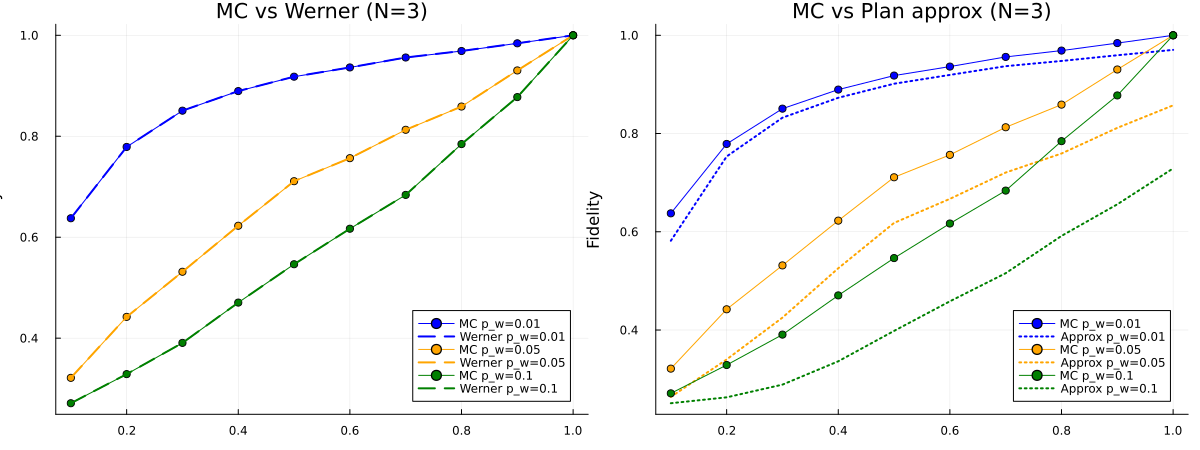
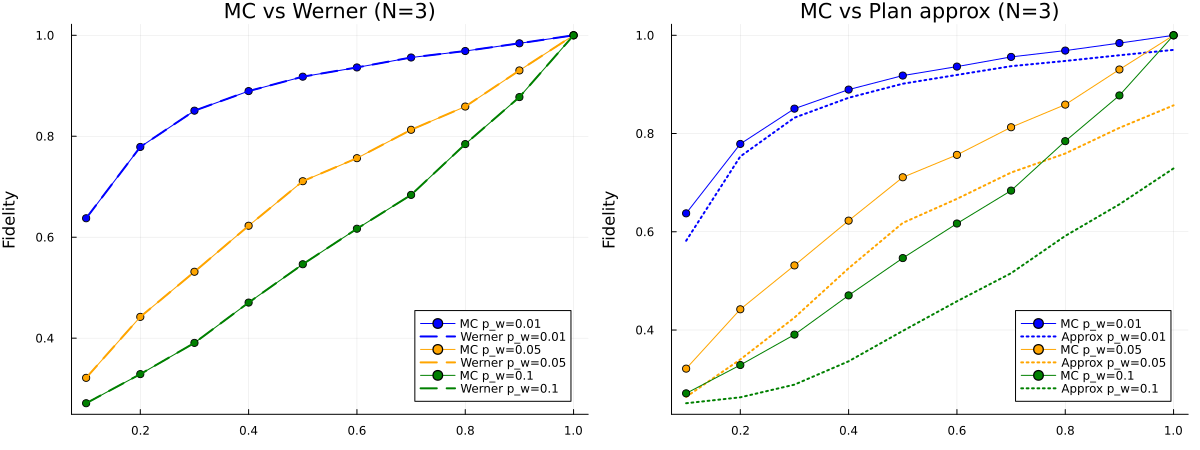
State timing assumptions, fix tail wording, N=1 check, and margins

diff --git a/presentation.tex b/presentation.tex
@@ -285,6 +285,12 @@
           T = \max_{i=1}^{N+1} T_i, \quad T_i \sim \mathrm{Geom}(\ps)
         \]
         {\small Larger $T$ $\Rightarrow$ more depolarization $\Rightarrow$ lower $F$.}
+
+        \vskip 0.2em
+        {\footnotesize \textbf{Assumption:} all BSMs execute at $T$, classical
+        messages are instantaneous. Swapping \emph{as soon as possible} would
+        measure out repeater qubits earlier $\Rightarrow$ this synchronous
+        model is the pessimistic case.}
       \end{block}
 
       \vskip 0.2em
@@ -359,7 +365,7 @@
 % ============================================================
 %  PHASE 1: IDEAL VALIDATION
 % ============================================================
-\begin{frame}{Phase 1: Ideal Case Validation}
+\begin{frame}{Ideal Case Validation}
   \begin{columns}[c]
     \begin{column}{0.48\textwidth}
       \textbf{Test:} no noise ($\pw = 0$), deterministic ($\ps = 1$)
@@ -498,7 +504,7 @@
 % ============================================================
 %  THEORETICAL FRAMEWORK
 % ============================================================
-\begin{frame}{Phase 5: Theoretical Framework}
+\begin{frame}{Theoretical Framework}
   \begin{columns}[T]
     \begin{column}{0.48\textwidth}
       \begin{block}{Distribution Time}
@@ -622,8 +628,8 @@
     \end{column}
     \begin{column}{0.30\textwidth}
       \small
-      \textbf{Distribution of $T$:} heavy-tailed (geometric),
-      outliers wait much longer.
+      \textbf{Distribution of $T$:} right-skewed with a geometric
+      (exponential) tail, outliers wait much longer.
     \end{column}
   \end{columns}
 \end{frame}

diff --git a/README.md b/README.md
@@ -39,8 +39,10 @@ julia --project=. run_simulation.jl
 julia --project=. run_analysis.jl
 ```
 
-Both entry points seed the global RNG (`seed = 2025`), so figures and the
-numbers quoted in the slides are reproducible run-to-run.
+`run_simulation.jl` and `run_analysis.jl` seed the global RNG (`seed = 2025`),
+so figures and the numbers quoted in the slides are reproducible run-to-run
+(`run_ideal.jl` needs no seed: the ideal fidelity does not depend on the
+random BSM outcomes).
 
 ## Parameters
 